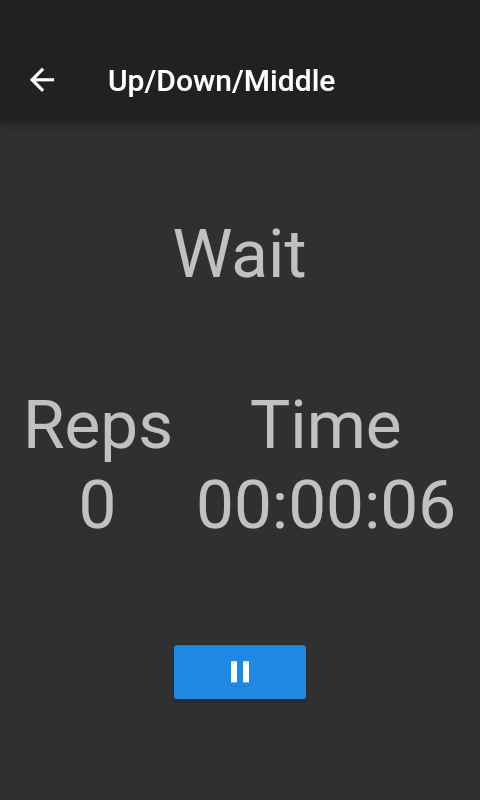
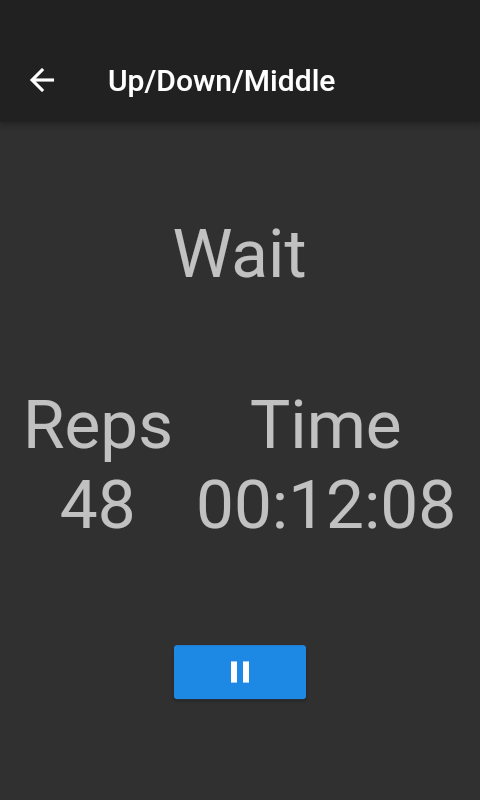
Got screenshots working.

diff --git a/lib/practice_screen.dart b/lib/practice_screen.dart
@@ -5,6 +5,8 @@ import 'package:logger/logger.dart';
 import 'dart:ui';
 import 'keys.dart';
 import 'practice_background.dart';
+import 'drill_data.dart';
+import 'screenshot_data.dart';
 
 class PracticeScreen extends StatefulWidget {
   static const repsKey = Key(Keys.repsKey);
@@ -26,12 +28,24 @@ class _PracticeScreenState extends State<PracticeScreen> {
 
   @override
   Widget build(BuildContext context) {
+    var stream;
+    if (ScreenshotData.progress == null) {
+      // Normal flow.
+      _log.i('Waiting for screenshot data');
+      stream = PracticeBackground.progressStream;
+    } else {
+      // Override the practice screen for screenshots.
+      _log.i('Using fake screenshot data');
+      stream = Stream.fromIterable([ScreenshotData.progress]);
+    }
     return WillPopScope(
         onWillPop: _onWillPop,
         child: StreamBuilder<PracticeProgress>(
-            stream: PracticeBackground.progressStream,
+            stream: stream,
+            initialData: ScreenshotData.progress,
             builder: (context, snapshot) {
-              if (!PracticeBackground.running) {
+              _log.i('Rendering with ${snapshot?.data}');
+              if (!PracticeBackground.running && ScreenshotData.progress == null) {
                 // Drill was stopped via notification media controls.
                 if (!_popInProgress) {
                   _popInProgress = true;

diff --git a/test_driver/screenshots.dart b/test_driver/screenshots.dart
@@ -2,10 +2,34 @@ import 'package:flutter_driver/driver_extension.dart';
 import 'package:ft3/main.dart' as app;
 import 'package:flutter/widgets.dart';
 
-void main() {
+import 'package:ft3/practice_background.dart';
+import 'package:ft3/screenshot_data.dart';
+import 'package:ft3/static_drills.dart';
+
+void main() async {
   // Enable the flutter driver extension so that tests can control the app.
   enableFlutterDriverExtension();
   // Remove the debug logo, so screenshots look better.
   WidgetsApp.debugAllowBannerOverride = false;
+  // Override the screenshot so that it looks good, and also works around
+  // https://github.com/flutter/flutter/issues/35521 which sometimes triggers.
+  var rollover;
+  var drills = await StaticDrills.load();
+  for (var drill in drills.getDrills('Rollover')) {
+    if (drill.name == 'Up/Down/Middle') {
+      rollover = drill;
+      break;
+    }
+  }
+  if (rollover == null) {
+    throw Exception('Could not find rollover drill for screenshot');
+  }
+  ScreenshotData.progress = PracticeProgress(
+      drill: rollover,
+      state: PracticeState.playing,
+      action: 'Wait',
+      shotCount: 48,
+      elapsed: '00:12:08');
+
   app.main();
 }

diff --git a/lib/drill_list_screen.dart b/lib/drill_list_screen.dart
@@ -4,6 +4,7 @@ import 'package:logger/logger.dart';
 import 'drill_data.dart';
 import 'practice_background.dart';
 import 'practice_screen.dart';
+import 'screenshot_data.dart';
 
 // Displays a list of drills.
 class DrillListScreen extends StatelessWidget {
@@ -31,7 +32,14 @@ class DrillListScreen extends StatelessWidget {
   }
 
   void _startDrill(BuildContext context, DrillData drill) {
-    PracticeBackground.startPractice(drill);
+    if (ScreenshotData.progress == null) {
+      // Normal flow.
+      PracticeBackground.startPractice(drill);
+    } else {
+      // Workaround for https://github.com/flutter/flutter/issues/35521, since
+      // triggering native UI tends to trigger that bug.
+      log.i('Skipping background task for screenshots.');
+    }
     Navigator.pushNamed(context, PracticeScreen.routeName, arguments: drill);
   }
 }

diff --git a/test_driver/screenshots_test.dart b/test_driver/screenshots_test.dart
@@ -1,6 +1,3 @@
-
-import 'dart:io';
-
 import 'package:flutter_driver/flutter_driver.dart';
 import 'package:screenshots/screenshots.dart' as screenshots;
 import 'package:test/test.dart';
@@ -11,9 +8,6 @@ void main() {
   final passTypes = 'Passing-Types';
   final rolloverTypes = 'Rollover-Types';
   final rolloverDrill = 'Rollover-Drill';
-  // Slight delay because otherwise we hit
-  // https://github.com/flutter/flutter/issues/35521.
-  final renderingDelayTime = Duration(seconds: 1);
 
   group('FoosTrainer App Screenshots', () {
     FlutterDriver driver;
@@ -52,7 +46,6 @@ void main() {
 
       await driver.tap(find.text('Up/Down/Middle'));
       await driver.waitFor(find.text('Wait'));
-      sleep(renderingDelayTime);
       await screenshot(rolloverDrill);
     });
   });

diff --git a/lib/screenshot_data.dart b/lib/screenshot_data.dart
@@ -1,0 +1,7 @@
+
+import 'practice_background.dart';
+
+/// Fake data for use in screenshotting.
+class ScreenshotData {
+  static PracticeProgress progress;
+}
